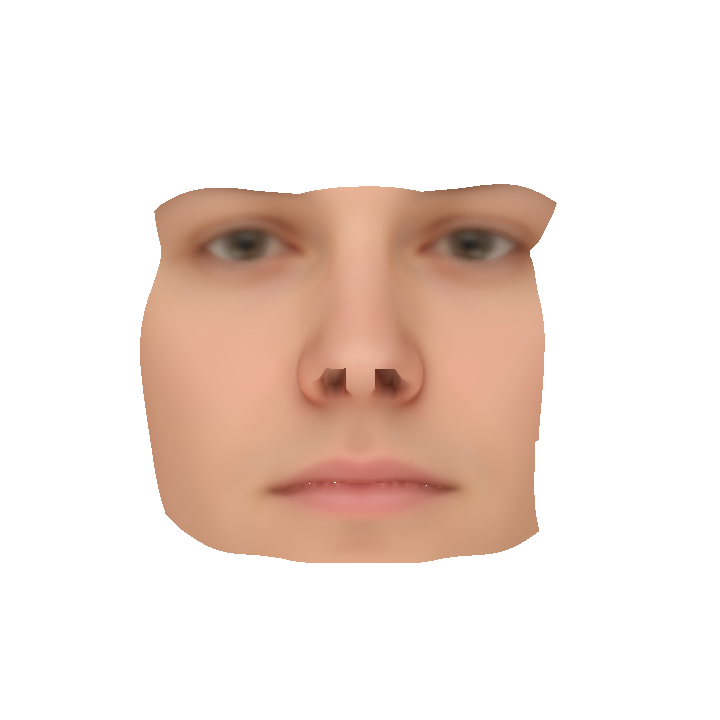
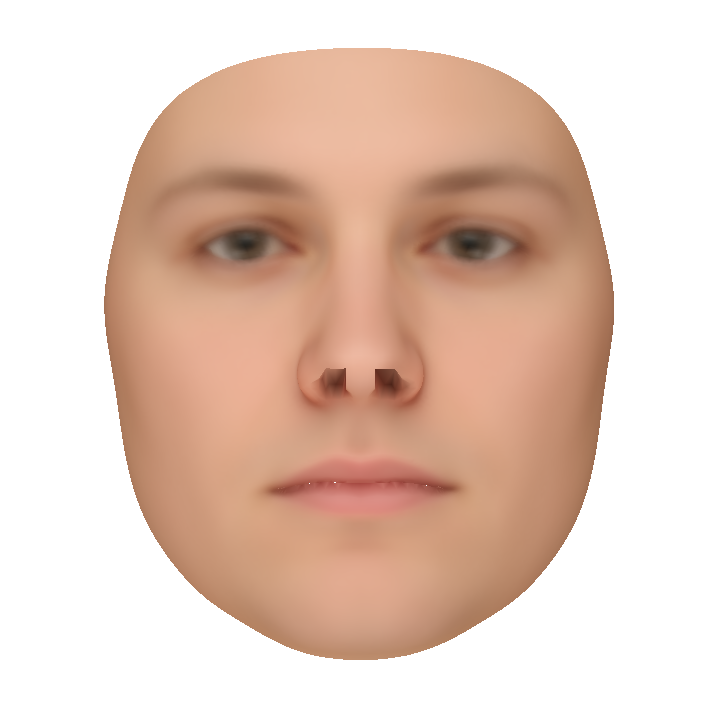
Auto stash before revert of "Merge remote-tracking branch 'origin/main' into main"

Changed region(s): [[0.1222, 0.0611, 0.8556, 0.9167]]

diff --git a/src/Render.h b/src/Render.h
@@ -2,78 +2,12 @@
 #include "Eigen.h"
 #include "FaceModel.h"
 #include "opencv2/core/core.hpp"
+#include <chrono>
 
 struct ModelVertex
 {
 	Vector4f position;
 	Vector3f color;
-	Vector2f texcoords;
-};
-
-class plane
-{
-public:
-	plane() {}
-
-	plane(float a, float b, float c, float d)
-	{
-		this->a = a;
-		this->b = b;
-		this->c = c;
-		this->d = d;
-	}
-
-	plane(const Vector3f& normal, float d = 0.0f)
-	{
-		this->a = normal[0];
-		this->b = normal[1];
-		this->c = normal[2];
-		this->d = d;
-	}
-
-	plane(const Vector3f& point, const Vector3f& normal)
-	{
-		a = normal[0];
-		b = normal[1];
-		c = normal[2];
-		d = -(point.dot(normal));
-	}
-
-	plane(const Vector3f& point1, const Vector3f& point2, const Vector3f& point3)
-	{
-		Vector3f v1 = point2 - point1;
-		Vector3f v2 = point3 - point1;
-		Vector3f normal = (v1.cross(v2));
-		normal /= normal.norm();
-
-		a = normal[0];
-		b = normal[1];
-		c = normal[2];
-		d = -(point1.dot(normal));
-	}
-
-	void normalize()
-	{
-		float length = sqrt(a * a + b * b + c * c);
-
-		a /= length;
-		b /= length;
-		c /= length;
-	}
-
-	float getSignedDistanceFromPoint(const Vector3f& point) const
-	{
-		return a * point[0] + b * point[1] + c * point[2] + d;
-	}
-
-	float getSignedDistanceFromPoint(const Vector4f& point) const
-	{
-		return a * point[0] + b * point[1] + c * point[2] + d;
-	}
-
-public:
-	float a, b, c;
-	float d;
 };
 
 struct TriangleToRasterize 
@@ -88,20 +22,6 @@ struct TriangleToRasterize
 	double one_over_z0;
 	double one_over_z1;
 	double one_over_z2;
-
-
-	plane alphaPlane;
-	plane betaPlane;
-	plane gammaPlane;
-	double one_over_alpha_c;
-	double one_over_beta_c;
-	double one_over_gamma_c;
-	float alpha_ffx;
-	float beta_ffx;
-	float gamma_ffx;
-	float alpha_ffy;
-	float beta_ffy;
-	float gamma_ffy;
 };
 
 bool vertices_ccw_in_screen_space(const Vector4f& v0, const Vector4f& v1, const Vector4f& v2) {
@@ -145,12 +65,11 @@ cv::Rect calculate_clipped_bounding_box(Vector4f v0, Vector4f v1, Vector4f v2, i
 std::pair<TriangleToRasterize, bool> process_prospective_tri(ModelVertex v0, ModelVertex v1, ModelVertex v2, int viewport_width, int viewport_height, bool enable_backface_culling)
 {
 	TriangleToRasterize t;
+
 	t.v0 = v0;
 	t.v1 = v1;
 	t.v2 = v2;
 
-	// Only for texturing or perspective texturing:
-	//t.texture = _texture;
 	t.one_over_z0 = 1.0 / (double)t.v0.position[3];
 	t.one_over_z1 = 1.0 / (double)t.v1.position[3];
 	t.one_over_z2 = 1.0 / (double)t.v2.position[3];
@@ -186,25 +105,6 @@ std::pair<TriangleToRasterize, bool> process_prospective_tri(ModelVertex v0, Mod
 	if (t.max_x <= t.min_x || t.max_y <= t.min_y)
 		return std::make_pair(t, false);
 
-	t.alphaPlane = plane(Vector3f(t.v0.position[0], t.v0.position[1], t.v0.texcoords[0] * t.one_over_z0),
-		Vector3f(t.v1.position[0], t.v1.position[1], t.v1.texcoords[0] * t.one_over_z1),
-		Vector3f(t.v2.position[0], t.v2.position[1], t.v2.texcoords[0] * t.one_over_z2));
-	t.betaPlane = plane(Vector3f(t.v0.position[0], t.v0.position[1], t.v0.texcoords[1] * t.one_over_z0),
-		Vector3f(t.v1.position[0], t.v1.position[1], t.v1.texcoords[1] * t.one_over_z1),
-		Vector3f(t.v2.position[0], t.v2.position[1], t.v2.texcoords[1] * t.one_over_z2));
-	t.gammaPlane = plane(Vector3f(t.v0.position[0], t.v0.position[1], t.one_over_z0),
-		Vector3f(t.v1.position[0], t.v1.position[1], t.one_over_z1),
-		Vector3f(t.v2.position[0], t.v2.position[1], t.one_over_z2));
-	t.one_over_alpha_c = 1.0f / t.alphaPlane.c;
-	t.one_over_beta_c = 1.0f / t.betaPlane.c;
-	t.one_over_gamma_c = 1.0f / t.gammaPlane.c;
-	t.alpha_ffx = -t.alphaPlane.a * t.one_over_alpha_c;
-	t.beta_ffx = -t.betaPlane.a * t.one_over_beta_c;
-	t.gamma_ffx = -t.gammaPlane.a * t.one_over_gamma_c;
-	t.alpha_ffy = -t.alphaPlane.b * t.one_over_alpha_c;
-	t.beta_ffy = -t.betaPlane.b * t.one_over_beta_c;
-	t.gamma_ffy = -t.gammaPlane.b * t.one_over_gamma_c;
-
 	return std::make_pair(t, true);
 };
 
@@ -232,12 +132,10 @@ std::vector<ModelVertex> clip_polygon_to_plane_in_4d(const std::vector<ModelVert
 			// generate a new ModelVertex at the line-plane intersection point
 			Vector4f position = vertices[a].position + t * direction;
 			Vector3f color = vertices[a].color + t * (vertices[b].color - vertices[a].color);
-			Vector2f texCoord = vertices[a].texcoords + t * (vertices[b].texcoords - vertices[a].texcoords);	// We could omit that if we don't render with texture.
 
 			ModelVertex vertex;
 			vertex.position = position;
 			vertex.color = color;
-			vertex.texcoords = texCoord;
 
 			if (fa < 0) // we keep the original vertex plus the new one
 			{
@@ -309,10 +207,7 @@ void raster_triangle(TriangleToRasterize triangle, cv::Mat img, cv::Mat depthbuf
 					gamma *= d * triangle.one_over_z2;
 
 					// attributes interpolation
-					Vector3f color_persp = alpha * triangle.v0.color + beta * triangle.v1.color + gamma * triangle.v2.color;
-					Vector2f texcoords_persp = alpha * triangle.v0.texcoords + beta * triangle.v1.texcoords + gamma * triangle.v2.texcoords;
-
-					Vector3f pixel_color = color_persp;
+					Vector3f pixel_color = alpha * triangle.v0.color + beta * triangle.v1.color + gamma * triangle.v2.color;
 
 					// clamp bytes to 255
 					const unsigned char red = static_cast<unsigned char>(255.0f * std::min(pixel_color[0], 1.0f));
@@ -333,40 +228,51 @@ void raster_triangle(TriangleToRasterize triangle, cv::Mat img, cv::Mat depthbuf
 
 cv::Mat render(FaceModel face_model, Matrix4f projection_matrix, int viewport_width, int viewport_height, bool enable_backface_culling = true, bool enable_near_clipping = true, bool enable_far_clipping = true)
 {
+	auto start = std::chrono::steady_clock::now();
 	cv::Mat img = cv::Mat::zeros(viewport_height, viewport_width, CV_8UC4); // make sure it's CV_8UC4?
 	cv::Mat depthbuffer = std::numeric_limits<float>::max() * cv::Mat::ones(viewport_height, viewport_width, CV_64FC1);
-
-	std::vector<ModelVertex> clipspace_vertices;
-	clipspace_vertices.reserve(face_model.getNumVertices());
 
 	// Get the coordinate of the face model's vertices in clipspace
 	MatrixXf model_vertices(4, face_model.getNumVertices());
 	model_vertices.block(0, 0, 3, face_model.getNumVertices()) = face_model.getShapeMean().reshaped(3, face_model.getNumVertices());
 	model_vertices.row(3) = VectorXf::Ones(face_model.getNumVertices());
 	MatrixXf clipspace_vertices_coord = (projection_matrix * model_vertices).transpose();
+	auto end = std::chrono::steady_clock::now();
+	std::cout << "time used for calculating clipspace coords: " << std::to_string(std::chrono::duration_cast<std::chrono::microseconds>(end - start).count()) << "ms\n";
 
-	for (int i = 0; i < face_model.getNumVertices(); ++i) {
-		ModelVertex vertex;
-		vertex.position = clipspace_vertices_coord.row(i);
-		vertex.color = Vector3f(face_model.getColorMean()[i * 3], face_model.getColorMean()[i * 3 + 1], face_model.getColorMean()[i * 3 + 2]);
-		vertex.texcoords = Vector2f(0.f, 0.f);
-		clipspace_vertices.push_back(vertex);
-	}
-
-	// Define triangles to be rasterized
+	start = std::chrono::steady_clock::now();
 	std::vector<TriangleToRasterize> triangles_to_raster;
 
-	for (int i = 0; i < face_model.getNumVertices(); ++i) {
+
+	for (int i = 0; i < face_model.getTriangulation().rows(); ++i) {
 		Vector3i tri_indices = face_model.getTriangulation().row(i);
+
+		// Get the vertices of this triangle
+		ModelVertex v0, v1, v2;
+		v0.position = clipspace_vertices_coord.row(tri_indices[0]);
+		v0.color = Vector3f(face_model.getColorMean()[tri_indices[0] * 3], face_model.getColorMean()[tri_indices[0] * 3 + 1], 
+			face_model.getColorMean()[tri_indices[0] * 3 + 2]);
+
+		v1.position = clipspace_vertices_coord.row(tri_indices[1]);
+		v1.color = Vector3f(face_model.getColorMean()[tri_indices[1] * 3], face_model.getColorMean()[tri_indices[1] * 3 + 1],
+			face_model.getColorMean()[tri_indices[1] * 3 + 2]);
+
+		v2.position = clipspace_vertices_coord.row(tri_indices[2]);
+		v2.color = Vector3f(face_model.getColorMean()[tri_indices[2] * 3], face_model.getColorMean()[tri_indices[2] * 3 + 1],
+			face_model.getColorMean()[tri_indices[2] * 3 + 2]);
+
+		std::vector<ModelVertex> vertices{ v0, v1, v2 };
+
+		// Get the visibility of each vertex
 		unsigned char visibility_bits[3];
 		for (unsigned char k = 0; k < 3; k++)
 		{
 			visibility_bits[k] = 0;
 
-			float x_cc = clipspace_vertices[tri_indices[k]].position[0];
-			float y_cc = clipspace_vertices[tri_indices[k]].position[1];
-			float z_cc = clipspace_vertices[tri_indices[k]].position[2];
-			float w_cc = clipspace_vertices[tri_indices[k]].position[3];
+			float x_cc = clipspace_vertices_coord.row(tri_indices[k])[0];
+			float y_cc = clipspace_vertices_coord.row(tri_indices[k])[1];
+			float z_cc = clipspace_vertices_coord.row(tri_indices[k])[2];
+			float w_cc = clipspace_vertices_coord.row(tri_indices[k])[3];
 
 			if (x_cc < -w_cc)			// true if outside of view frustum. False if on or inside the plane.
 				visibility_bits[k] |= 1;	// set bit if outside of frustum
@@ -389,17 +295,14 @@ cv::Mat render(FaceModel face_model, Matrix4f projection_matrix, int viewport_wi
 		// all vertices are visible - pass the whole triangle to the rasterizer. = All bits of all 3 triangles are 0.
 		if ((visibility_bits[0] | visibility_bits[1] | visibility_bits[2]) == 0)
 		{
-			std::pair t = process_prospective_tri(clipspace_vertices[tri_indices[0]], clipspace_vertices[tri_indices[1]], clipspace_vertices[tri_indices[2]], viewport_width, viewport_height, enable_backface_culling);
+
+			std::pair t = process_prospective_tri(vertices[0], vertices[1], vertices[2], viewport_width, viewport_height, enable_backface_culling);
 			if (t.second) {
-				triangles_to_raster.push_back(t.first);
+				raster_triangle(t.first, img, depthbuffer, enable_far_clipping);
 			}
 			continue;
 		}
-		// at this moment the triangle is known to be intersecting one of the view frustum's planes
-		std::vector<ModelVertex> vertices;
-		vertices.push_back(clipspace_vertices[tri_indices[0]]);
-		vertices.push_back(clipspace_vertices[tri_indices[1]]);
-		vertices.push_back(clipspace_vertices[tri_indices[2]]);
+
 		// split the triangle if it intersects the near plane:
 		if (enable_near_clipping)
 		{
@@ -413,16 +316,22 @@ cv::Mat render(FaceModel face_model, Matrix4f projection_matrix, int viewport_wi
 			{
 				std::pair t = process_prospective_tri(vertices[0], vertices[1 + k], vertices[2 + k], viewport_width, viewport_height, enable_backface_culling);
 				if (t.second) {
-					triangles_to_raster.push_back(t.first);
+					raster_triangle(t.first, img, depthbuffer, enable_far_clipping);
 				}
 			}
 		}
 	}
+	end = std::chrono::steady_clock::now();
+	std::cout << "time used for calculating rest_triangles: " << std::to_string(std::chrono::duration_cast<std::chrono::microseconds>(end - start).count()) << "ms\n";
 
+	start = std::chrono::steady_clock::now();
 	// Fragment/pixel shader: Colour the pixel values
 	// for every tri:
 	for (const auto& tri : triangles_to_raster) {
 		raster_triangle(tri, img, depthbuffer, enable_far_clipping);
 	}
+	end = std::chrono::steady_clock::now();
+	std::cout << "time used for vertex/fragment shader: " << std::to_string(std::chrono::duration_cast<std::chrono::microseconds>(end - start).count()) << "ms\n";
+
 	return img;
 };

diff --git a/src/main.cpp b/src/main.cpp
@@ -66,7 +66,7 @@ void performTask() {
 		const auto start = std::chrono::steady_clock::now();
 		cv::Mat img = render(face_model, projection_matrix, 720, 720);
 		const auto end = std::chrono::steady_clock::now();
-		std::cout << "time used: " << std::to_string(std::chrono::duration_cast<std::chrono::microseconds>(end - start).count()/1000000) << "s";
+		std::cout << "time used: " << std::to_string(std::chrono::duration_cast<std::chrono::microseconds>(end - start).count()) << "ms\n";
 		cv::imwrite("../../data/samples/2d face image/sample_image.png", img);
 		break;
 	}
